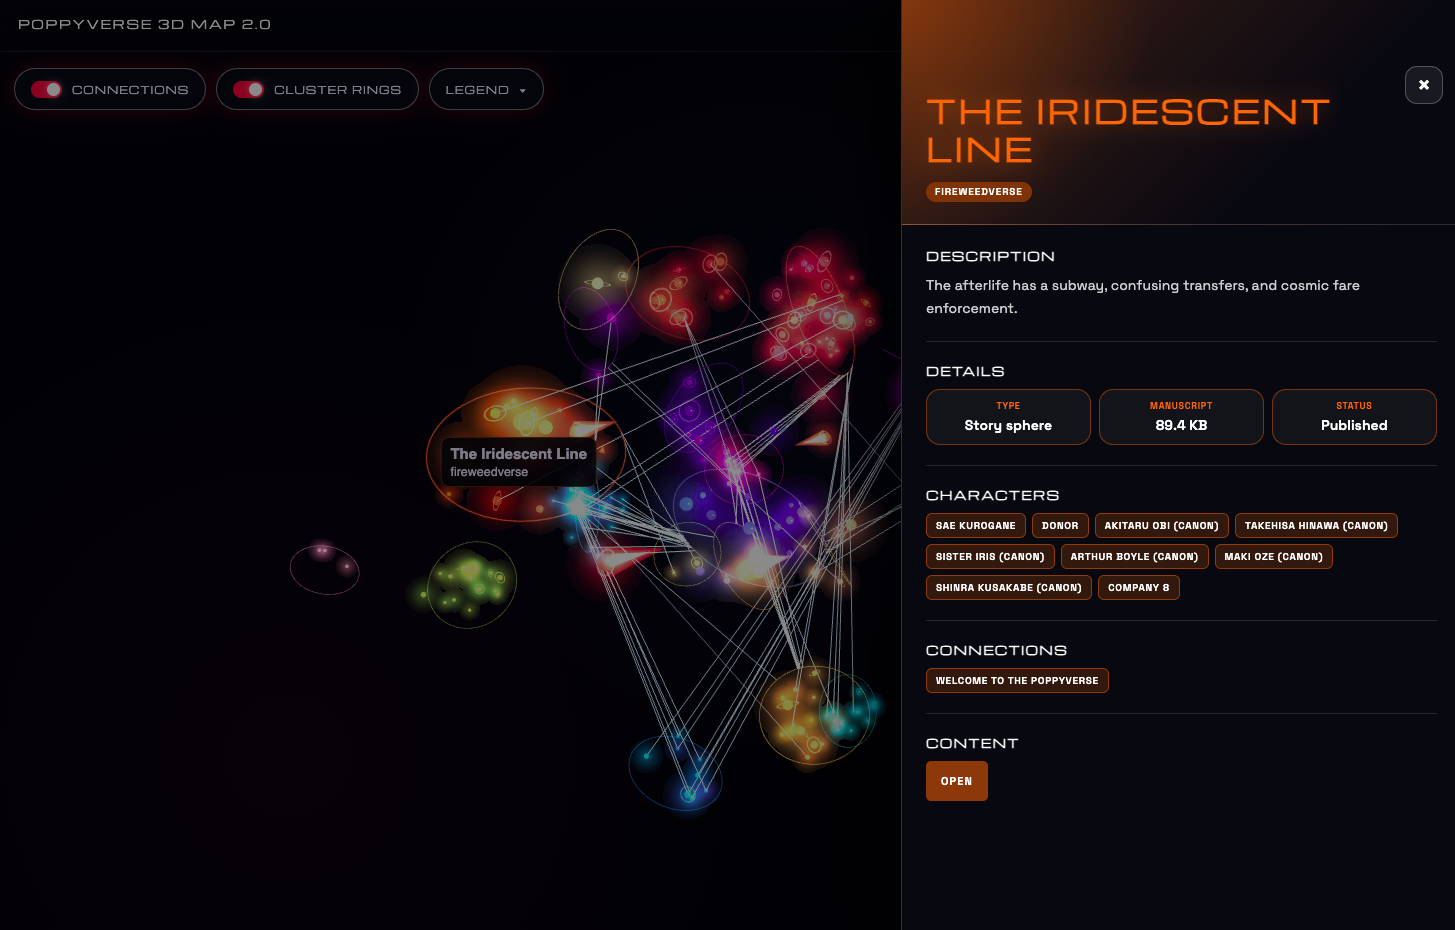
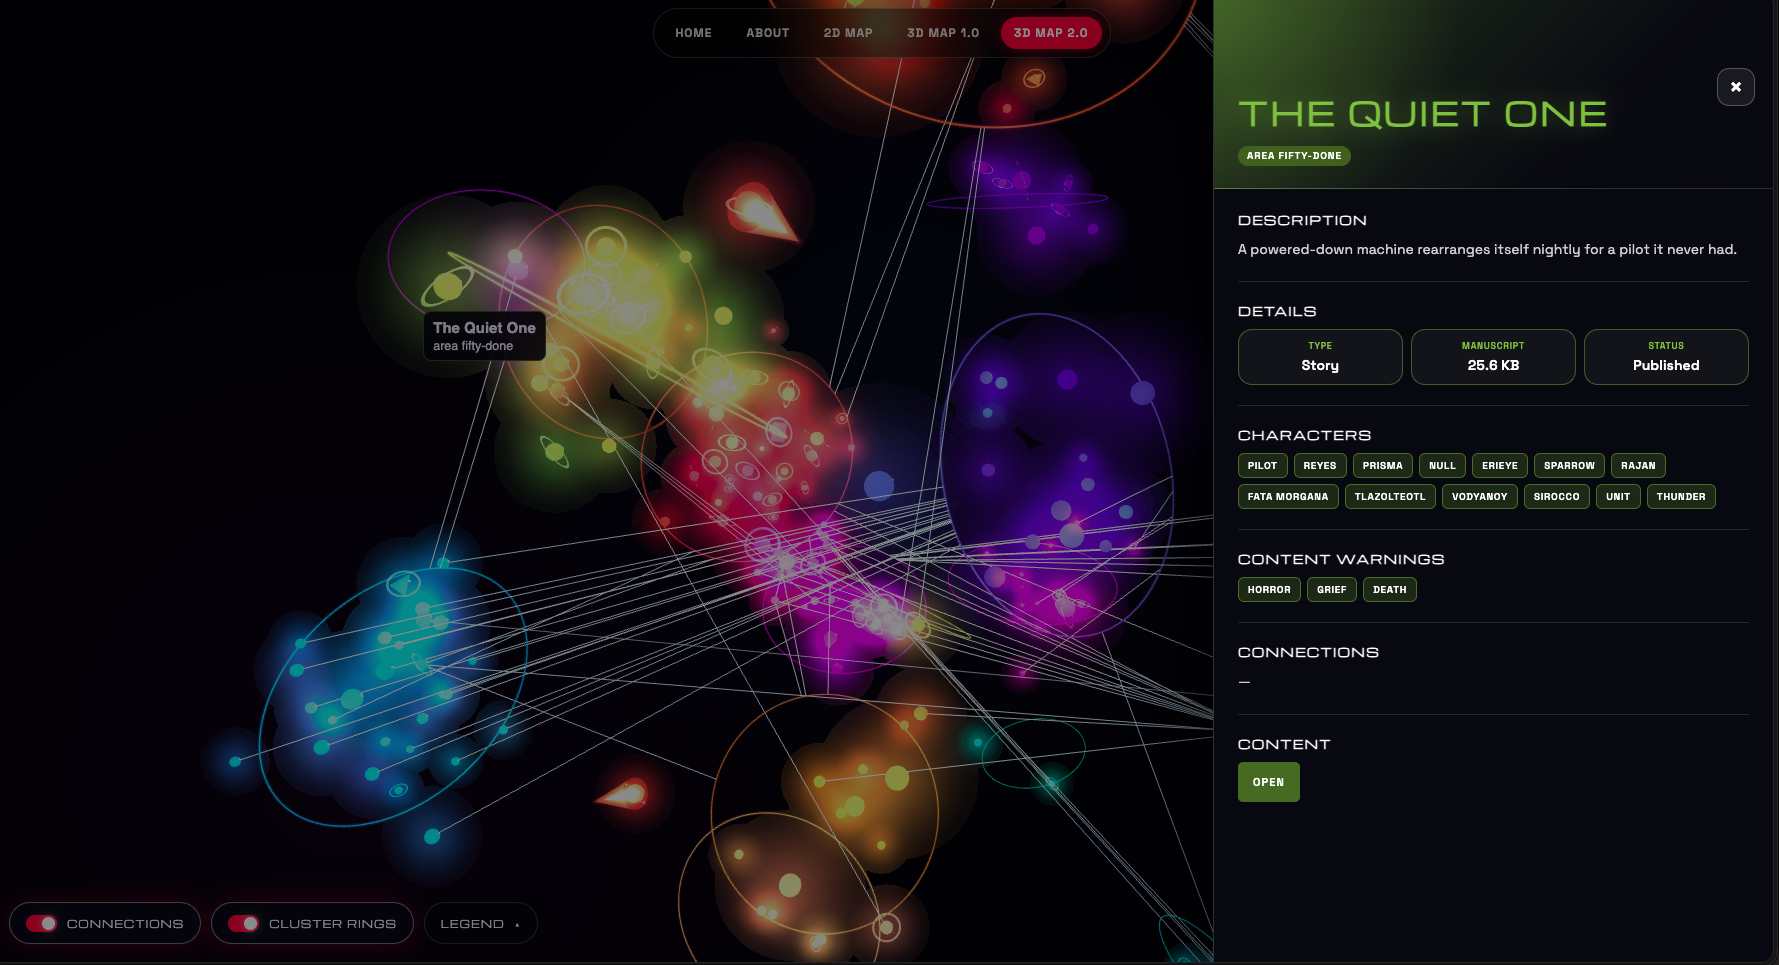
Move cover images to v2-rings, update README, drop docs folder
- Cover images now live in screenshots/v2-rings; README header points there
- Update the 3D Map 2.0 detail card screenshot; add the original concept sketch
- Remove the docs/ folder and its README row

diff --git a/README.md b/README.md
@@ -1,10 +1,10 @@
 <table align="center" width="100%">
   <tr valign="top">
     <td align="center" width="50%">
-      <img src="/screenshots/misc/cover-1.png" alt="The Poppyverse 3D map, cover image 1" width="100%" />
+      <img src="/screenshots/v2-rings/cover-1.png" alt="The Poppyverse 3D map, cover image 1" width="100%" />
     </td>
     <td align="center" width="50%">
-      <img src="/screenshots/misc/cover-2.png" alt="The Poppyverse 3D map, cover image 2" width="100%" />
+      <img src="/screenshots/v2-rings/cover-2.png" alt="The Poppyverse 3D map, cover image 2" width="100%" />
     </td>
   </tr>
 </table>
@@ -91,8 +91,7 @@ The four pages stay at the repo root because that is where their public GitHub P
 | `index.html`, `about.html`, `2d_map.html`, `3d_map_2.html` | The published pages (all generated) |
 | `components/` | Shared web components loaded by the pages: `poppy-nav.js`, `poppy-card.js`, `poppy-aurora.js` |
 | `scripts/` | The build scripts (run `build_all.py`) |
-| `screenshots/` | Images, grouped by era: `early-prototype/` (first bounding-box 3D views), `layout-experiments/` (globe, cube and divide layouts), `v1-cylinder/` (the cylinder 3D map and its detail card), `v2-rings/` (3D Map 2.0), `misc/` (README cover images and home-screen shots) |
-| `docs/` | Technical notes, e.g. `3d-map-pipeline.html` |
+| `screenshots/` | Images, grouped by era: `early-prototype/` (first bounding-box 3D views), `layout-experiments/` (globe, cube and divide layouts), `v1-cylinder/` (the cylinder 3D map and its detail card), `v2-rings/` (3D Map 2.0), `misc/` (home-screen shots and the original concept sketch) |
 | `archive/` | Unused leftovers (the `3d-force-graph` fork source); safe to ignore or delete |
 | `.github/`, `_config.yml`, `LICENSE`, `README.md` | Repo and GitHub Pages housekeeping |
 
